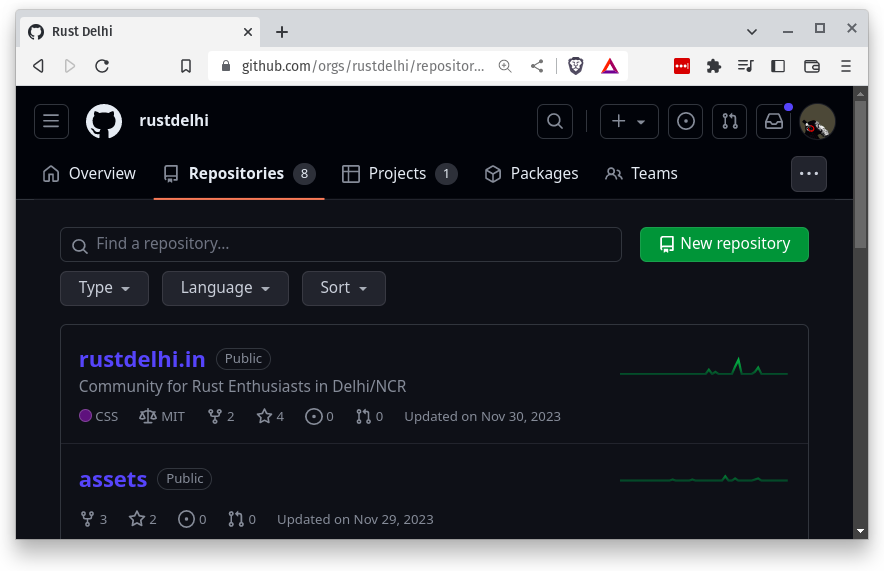
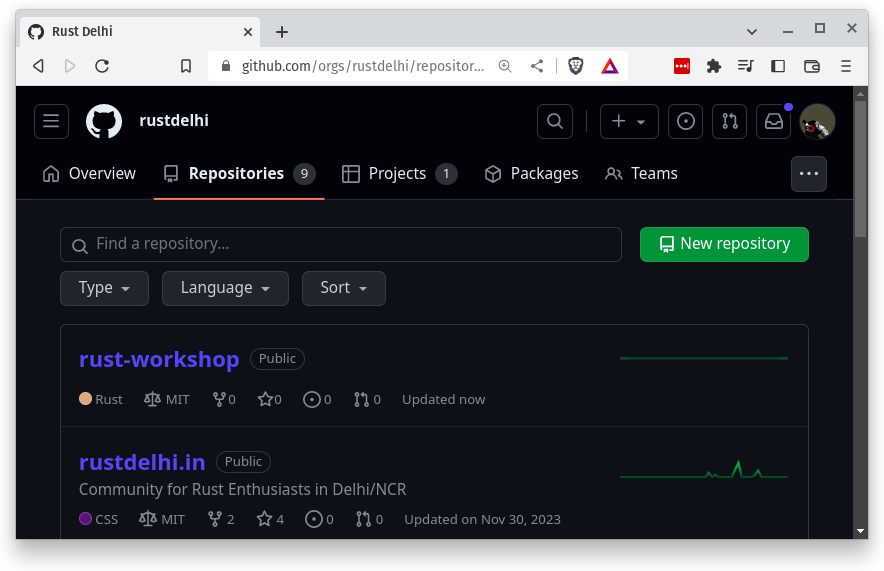
Added github images

diff --git a/1.Introduction to Programming/README.md b/1.Introduction to Programming/README.md
@@ -114,4 +114,16 @@ marp: true
 # Github
 
 - A platform for developers to create, store, manage and share their code
+
 - We can use git to interact with repos stored in Github
+
+
+---
+
+- Repositories view
+    ![](github1.png)
+
+---
+
+- Cloning a repo
+    ![](github_clone.png)
